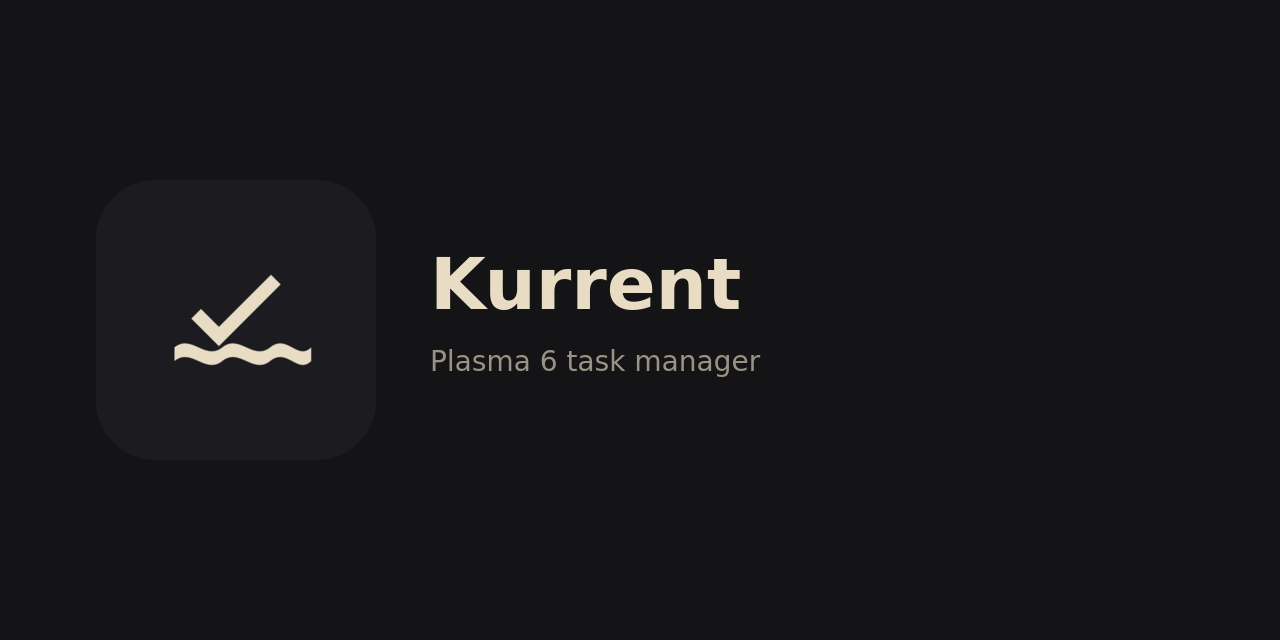
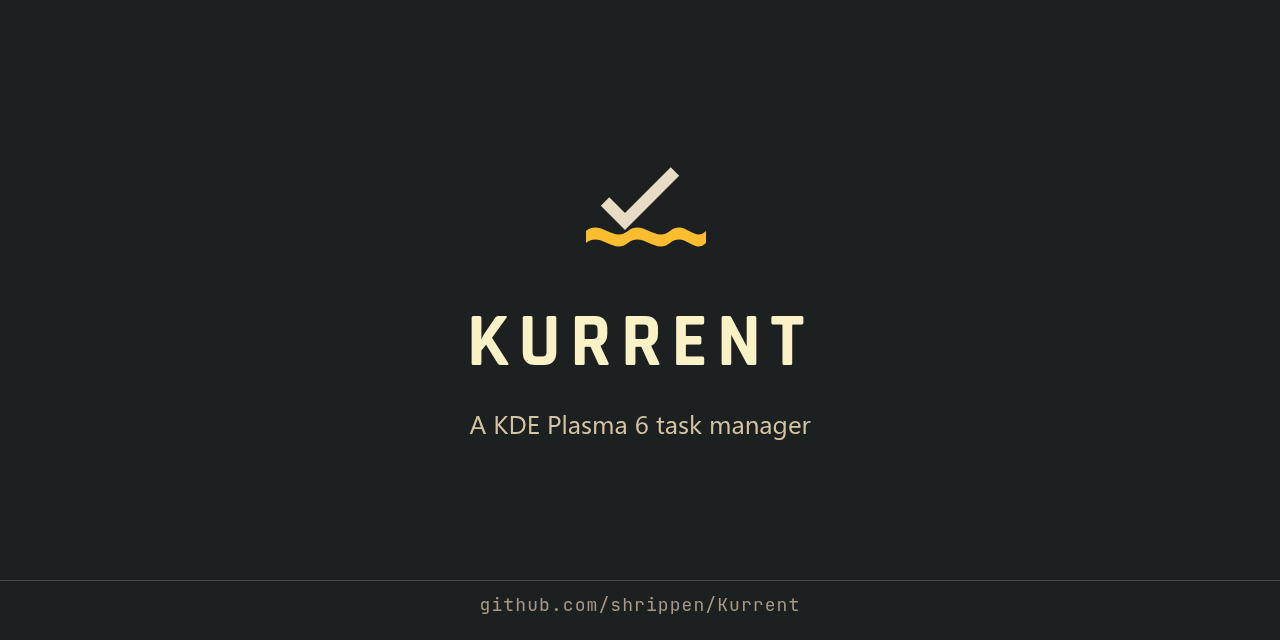
Expand and redesign landing page
Rebuild docs/index.html on the shared design system
(shrippen/DesignDefault): English by default with a German switch,
hero watermark, tier feature boxes and a signature footer. Add the
colour and monochrome logo and a generated social preview.

The page loads its stylesheet from the GitHub Pages site of
DesignDefault. Enable Pages there before merging this branch.

Add sections for views, Quick Add, the Akonadi flow, install,
configuration, FAQ and roadmap. Show version 0.4.0 and use the new
screenshots and detail crops.

diff --git a/docs/index.html b/docs/index.html
@@ -6,196 +6,156 @@
 <title>Kurrent — Plasma 6 Task Manager</title>
 <meta name="description" content="A KDE Plasma 6 task manager widget powered by Akonadi and Nextcloud CalDAV. Inbox, Today, Projects, Labels — right on your desktop.">
 <meta property="og:title" content="Kurrent — Plasma 6 Task Manager">
-<meta property="og:description" content="A KDE Plasma 6 task widget powered by Akonadi and Nextcloud CalDAV.">
-<meta property="og:image" content="https://shrippen.github.io/Kurrent/screenshot.jpg">
+<meta property="og:description" content="A KDE Plasma 6 task manager widget powered by Akonadi and Nextcloud CalDAV. Inbox, Today, Projects, Labels — right on your desktop.">
+<meta property="og:image" content="https://shrippen.github.io/Kurrent/social-preview.png">
+<meta property="og:image:width" content="1280">
+<meta property="og:image:height" content="640">
+<meta name="twitter:card" content="summary_large_image">
 <meta property="og:url" content="https://shrippen.github.io/Kurrent/">
-<link rel="icon" href="icon.svg" type="image/svg+xml">
+<link rel="icon" href="icon.svg">
 <script defer src="https://um.arianw.de/script.js" data-website-id="056d39ee-6a9d-4b14-9902-5a1ac399df08"></script>
 <link rel="preconnect" href="https://fonts.googleapis.com">
 <link rel="preconnect" href="https://fonts.gstatic.com" crossorigin>
-<link href="https://fonts.googleapis.com/css2?family=Rajdhani:wght@600;700&display=swap" rel="stylesheet">
-<style>
-*,*::before,*::after{box-sizing:border-box;margin:0;padding:0}
-:root{
-  --bg:#111113;--bg2:#1a1a1e;--fg:#e8dcc4;--fg2:#a09882;
-  --accent:#3daee9;--accent2:#27d796;--red:#e85050;
-  --radius:12px;--max:860px;
-  --font-heading:'Rajdhani',-apple-system,BlinkMacSystemFont,'Segoe UI',Roboto,Oxygen,Ubuntu,Cantarell,sans-serif;
-  --font:-apple-system,BlinkMacSystemFont,'Segoe UI',Roboto,Oxygen,Ubuntu,Cantarell,sans-serif;
-  --mono:'JetBrains Mono','Fira Code','Cascadia Code',Consolas,monospace;
-}
-html{scroll-behavior:smooth}
-body{background:var(--bg);color:var(--fg);font-family:var(--font);line-height:1.6;
-  -webkit-font-smoothing:antialiased}
-a{color:var(--accent);text-decoration:none}
-a:hover{text-decoration:underline}
-
-/* hero */
-.hero{display:flex;flex-direction:column;align-items:center;text-align:center;
-  padding:5rem 1.5rem 3rem;max-width:var(--max);margin:0 auto}
-.hero-icon{width:88px;height:88px;margin-bottom:1.5rem;filter:drop-shadow(0 0 24px rgba(61,174,233,.25))}
-.hero h1{font-family:var(--font-heading);font-size:clamp(2.2rem,5vw,3.4rem);font-weight:700;letter-spacing:-.02em;margin-bottom:.5rem}
-.hero .tagline{font-size:1.15rem;color:var(--fg2);max-width:520px;margin-bottom:2rem}
-.badges{display:flex;gap:.5rem;flex-wrap:wrap;justify-content:center;margin-bottom:2.5rem}
-.badges img{height:22px}
-
-/* install card */
-.install-card{background:var(--bg2);border:1px solid #2a2a30;border-radius:var(--radius);
-  padding:1.5rem;width:100%;max-width:640px;margin-bottom:1rem}
-.install-card label{display:block;font-size:.8rem;color:var(--fg2);margin-bottom:.5rem;text-transform:uppercase;letter-spacing:.06em}
-.cmd-row{display:flex;gap:.5rem;align-items:stretch}
-.cmd-box{flex:1;background:#0d0d0f;border:1px solid #2a2a30;border-radius:8px;padding:.7rem 1rem;
-  font-family:var(--mono);font-size:.85rem;color:var(--accent);white-space:nowrap;overflow-x:auto;
-  user-select:all;-webkit-user-select:all;cursor:text}
-.cmd-box::-webkit-scrollbar{height:4px}
-.cmd-box::-webkit-scrollbar-thumb{background:#333;border-radius:2px}
-.copy-btn{background:#2a2a30;border:1px solid #3a3a40;border-radius:8px;padding:.7rem .9rem;
-  cursor:pointer;color:var(--fg);font-size:.95rem;transition:background .15s}
-.copy-btn:hover{background:#3a3a44}
-.copy-btn.copied{background:#1a3a2a;border-color:var(--accent2);color:var(--accent2)}
-.install-note{font-size:.78rem;color:var(--fg2);margin-top:.6rem}
-.install-links{display:flex;gap:1rem;margin-top:1.2rem;flex-wrap:wrap;justify-content:center}
-.btn{display:inline-flex;align-items:center;gap:.45rem;padding:.55rem 1.2rem;border-radius:8px;
-  font-size:.88rem;font-weight:500;transition:all .15s;border:1px solid transparent}
-.btn-primary{background:var(--accent);color:#fff}
-.btn-primary:hover{background:#2c9ad8;text-decoration:none}
-.btn-ghost{border-color:#3a3a40;color:var(--fg2)}
-.btn-ghost:hover{border-color:var(--fg2);color:var(--fg);text-decoration:none}
-.btn svg{width:16px;height:16px;fill:currentColor}
-
-/* screenshot */
-.screenshot-wrap{padding:2.5rem 1.5rem;max-width:var(--max);margin:0 auto;text-align:center}
-.screenshot-wrap img{width:100%;max-width:780px;border-radius:var(--radius);
-  border:1px solid #2a2a30;box-shadow:0 8px 40px rgba(0,0,0,.5)}
-
-/* features */
-.features{display:grid;grid-template-columns:repeat(auto-fit,minmax(240px,1fr));gap:1.2rem;
-  padding:2rem 1.5rem 3rem;max-width:var(--max);margin:0 auto}
-.feat{background:var(--bg2);border:1px solid #2a2a30;border-radius:var(--radius);padding:1.3rem}
-.feat h3{font-family:var(--font-heading);font-size:1rem;font-weight:600;margin-bottom:.35rem}
-.feat p{font-size:.88rem;color:var(--fg2);line-height:1.5}
-
-/* prereqs */
-.section{padding:2rem 1.5rem;max-width:var(--max);margin:0 auto}
-.section h2{font-family:var(--font-heading);font-size:1.5rem;font-weight:600;margin-bottom:1rem}
-.section ul{list-style:none;padding:0}
-.section li{position:relative;padding-left:1.4rem;margin-bottom:.5rem;color:var(--fg2);font-size:.92rem}
-.section li::before{content:'›';position:absolute;left:0;color:var(--accent);font-weight:700}
-
-/* footer */
-footer{border-top:1px solid #2a2a30;padding:2rem 1.5rem;text-align:center;
-  color:var(--fg2);font-size:.82rem;margin-top:2rem}
-footer a{color:var(--fg2)}
-footer a:hover{color:var(--fg)}
-
-@media(max-width:500px){
-  .cmd-box{font-size:.75rem;padding:.6rem .7rem}
-  .hero{padding:3rem 1rem 2rem}
-}
-</style>
+<link href="https://fonts.googleapis.com/css2?family=Rajdhani:wght@500;600;700&family=JetBrains+Mono:wght@400;500&display=swap" rel="stylesheet">
+<link rel="stylesheet" href="https://shrippen.github.io/DesignDefault/v1/shrippen.css">
+<script src="https://shrippen.github.io/DesignDefault/v1/shrippen.js"></script>
 </head>
 <body>
 
-<section class="hero">
-  <img class="hero-icon" src="icon.svg" alt="Kurrent icon">
-  <h1>Kurrent</h1>
-  <p class="tagline">A KDE Plasma 6 task manager powered by Akonadi&nbsp;&amp;&nbsp;Nextcloud&nbsp;CalDAV. Inbox, Today, Projects, and Labels — right on your desktop.</p>
-
-  <div class="badges">
-    <a href="https://github.com/shrippen/Kurrent/releases/tag/v0.3.1"><img alt="Version 0.3.1" src="https://img.shields.io/badge/version-0.3.1-e8dcc4?labelColor=1c1c20"></a>
-    <img alt="Plasma 6" src="https://img.shields.io/badge/Plasma-6-3daee9?labelColor=1c1c20">
-    <img alt="License GPL-3.0" src="https://img.shields.io/badge/license-GPL--3.0-lightgrey?labelColor=1c1c20">
-  </div>
-
-  <div class="install-card">
-    <label>Install with one command</label>
-    <div class="cmd-row">
-      <div class="cmd-box" id="cmd">curl -fsSL https://github.com/shrippen/Kurrent/releases/latest/download/install-linux.sh | sudo bash</div>
-      <button class="copy-btn" id="copyBtn" title="Copy to clipboard" onclick="copyCmd()">
-        <svg viewBox="0 0 24 24" width="18" height="18" fill="none" stroke="currentColor" stroke-width="2" stroke-linecap="round" stroke-linejoin="round"><rect x="9" y="9" width="13" height="13" rx="2"/><path d="M5 15H4a2 2 0 01-2-2V4a2 2 0 012-2h9a2 2 0 012 2v1"/></svg>
-      </button>
+<nav class="nav"><div class="nav-inner">
+  <a class="nav-brand" href="#"><img src="icon.svg" alt="">Kurrent</a>
+  <div class="nav-links">
+    <a href="#features"><span lang="en">Features</span><span lang="de">Funktionen</span></a><a href="#views"><span lang="en">Views</span><span lang="de">Ansichten</span></a><a href="#install"><span lang="en">Install</span><span lang="de">Installation</span></a><a href="#faq"><span lang="en">FAQ</span><span lang="de">FAQ</span></a><a href="https://github.com/shrippen/Kurrent/blob/main/ROADMAP.md">Roadmap</a><a class="nav-hl" href="https://github.com/shrippen/Kurrent">GitHub</a>
+    <div class="lang" role="group" aria-label="Language">
+      <button type="button" data-lang="en" aria-pressed="true">EN</button>
+      <button type="button" data-lang="de" aria-pressed="false">DE</button>
     </div>
-    <p class="install-note"><code>sudo</code> is only for distro packages — the widget installs as your user. On non-Arch distros the installer falls back to compiling from source.</p>
   </div>
+</div></nav>
 
-  <div class="install-links">
-    <a class="btn btn-primary" href="https://github.com/shrippen/Kurrent/releases/latest">
-      <svg viewBox="0 0 24 24"><path d="M21 15v4a2 2 0 01-2 2H5a2 2 0 01-2-2v-4M7 10l5 5 5-5M12 15V3" fill="none" stroke="currentColor" stroke-width="2" stroke-linecap="round" stroke-linejoin="round"/></svg>
-      Download v0.3
-    </a>
-    <a class="btn btn-ghost" href="https://github.com/shrippen/Kurrent">
-      <svg viewBox="0 0 16 16"><path d="M8 0C3.58 0 0 3.58 0 8c0 3.54 2.29 6.53 5.47 7.59.4.07.55-.17.55-.38 0-.19-.01-.82-.01-1.49-2.01.37-2.53-.49-2.69-.94-.09-.23-.48-.94-.82-1.13-.28-.15-.68-.52-.01-.53.63-.01 1.08.58 1.23.82.72 1.21 1.87.87 2.33.66.07-.52.28-.87.51-1.07-1.78-.2-3.64-.89-3.64-3.95 0-.87.31-1.59.82-2.15-.08-.2-.36-1.02.08-2.12 0 0 .67-.21 2.2.82a7.5 7.5 0 014 0c1.53-1.04 2.2-.82 2.2-.82.44 1.1.16 1.92.08 2.12.51.56.82 1.27.82 2.15 0 3.07-1.87 3.75-3.65 3.95.29.25.54.73.54 1.48 0 1.07-.01 1.93-.01 2.2 0 .21.15.46.55.38A8.01 8.01 0 0016 8c0-4.42-3.58-8-8-8z"/></svg>
-      GitHub
-    </a>
-    <a class="btn btn-ghost" href="https://github.com/shrippen/Kurrent/blob/main/ROADMAP.md">Roadmap</a>
+<header class="hero">
+  <img class="hero-wm" src="icon-mono.svg" alt="" aria-hidden="true">
+  <div class="hero-main">
+    <h1 style="--title-size-narrow:clamp(2.5rem,22.0vw,13.1rem)">Kur<br class="split">rent</h1>
+    <p class="tagline" lang="en">A KDE Plasma 6 task manager powered by Akonadi &amp; Nextcloud CalDAV. Inbox, Today, Projects and Labels — with list, Kanban, calendar and heatmap views, right on your desktop.</p><p class="tagline" lang="de">Ein KDE-Plasma-6-Aufgabenmanager auf Basis von Akonadi &amp; Nextcloud-CalDAV. Inbox, Heute, Projekte und Labels – mit Listen-, Kanban-, Kalender- und Heatmap-Ansicht, direkt auf deinem Desktop.</p>
+  </div>
+  <div class="hero-side">
+    <div class="install-card">
+      <label><span lang="en">Install with one command</span><span lang="de">Installation mit einem Befehl</span></label><div class="cmd-row"><div class="cmd-box">curl -fsSL https://github.com/shrippen/Kurrent/releases/latest/download/install-linux.sh | sudo bash</div><button class="copy-btn" type="button" title="Copy" aria-label="Copy"><svg viewBox="0 0 24 24" width="18" height="18" fill="none" stroke="currentColor" stroke-width="2" stroke-linecap="round" stroke-linejoin="round"><rect x="9" y="9" width="13" height="13" rx="2"/><path d="M5 15H4a2 2 0 01-2-2V4a2 2 0 012-2h9a2 2 0 012 2v1"/></svg></button></div>
+      <p class="install-note" lang="en"><code>sudo</code> is only for distro packages — the widget installs as your user. On non-Arch distros the installer falls back to compiling from source.</p><p class="install-note" lang="de"><code>sudo</code> wird nur für Distributionspakete gebraucht – das Widget selbst wird als dein Benutzer installiert. Auf Nicht-Arch-Distributionen kompiliert der Installer aus dem Quellcode.</p>
+      <div class="install-links"><a class="btn btn-primary" href="https://github.com/shrippen/Kurrent/releases/latest">Download</a><a class="btn btn-ghost" href="https://github.com/shrippen/Kurrent">GitHub</a></div>
+    </div>
+    <div class="hero-shot"><img src="tasks.jpg" alt="Kurrent task list with sidebar for views, projects, labels and priorities, and a quick-add field"></div>
+  </div>
+</header>
+
+<main>
+
+<div class="section"><div class="callout callout-warn"><span lang="en"><strong>Note:</strong> Kurrent is completely vibe coded from start to finish. It is something I wanted for myself, but I might as well share it.</span><span lang="de"><strong>Hinweis:</strong> Kurrent ist von Anfang bis Ende komplett vibe-codiert. Ich wollte es für mich selbst, teile es aber gern.</span></div></div>
+<section class="facts"><div class="fact"><b>6</b><span><span lang="en">View modes</span><span lang="de">Ansichtsmodi</span></span></div><div class="fact"><b>6</b><span><span lang="en">Languages</span><span lang="de">Sprachen</span></span></div><div class="fact"><b>0</b><span><span lang="en">Extra logins</span><span lang="de">Zusätzliche Logins</span></span></div><div class="fact"><b>GPL-3</b><span><span lang="en">Open source</span><span lang="de">Open Source</span></span></div></section>
+<section class="features" id="features">
+  <div class="feat" data-tier="red">
+    <span class="feat-tag">Inbox</span>
+    <h3 lang="en">Inbox → Today flow</h3><h3 lang="de">Von Inbox zu Heute</h3>
+    <p lang="en">Inbox, Today, Tomorrow, Scheduled, Anytime, Recurring, Unlabeled, and Completed views — all from Akonadi.</p><p lang="de">Inbox, Heute, Morgen, Geplant, Jederzeit, Wiederkehrend, Ohne Label und Erledigt – alles aus Akonadi.</p>
+  </div>
+  <div class="feat" data-tier="yellow">
+    <span class="feat-tag">Quick Add</span>
+    <h3 lang="en">Quick Add</h3><h3 lang="de">Quick Add</h3>
+    <p lang="en"><code>tomorrow 18:00 !high #tag @project</code> — natural-language task entry with fuzzy matching.</p><p lang="de"><code>tomorrow 18:00 !high #tag @project</code> – Aufgaben in natürlicher Sprache eingeben, mit unscharfer Zuordnung.</p>
+  </div>
+  <div class="feat" data-tier="blue">
+    <span class="feat-tag"><span lang="en">Projects</span><span lang="de">Projekte</span></span>
+    <h3 lang="en">Projects &amp; Labels</h3><h3 lang="de">Projekte &amp; Labels</h3>
+    <p lang="en">Akonadi calendars as projects, CalDAV categories as labels. Color-coded, filterable, drag-and-drop subtasks.</p><p lang="de">Akonadi-Kalender als Projekte, CalDAV-Kategorien als Labels. Farbcodiert, filterbar, Unteraufgaben per Drag-and-drop.</p>
+  </div>
+  <div class="feat" data-tier="red">
+    <span class="feat-tag">CalDAV</span>
+    <h3 lang="en">CalDAV round-trip</h3><h3 lang="de">CalDAV-Abgleich</h3>
+    <p lang="en">Uses your existing Nextcloud / KOrganizer / Merkuro CalDAV setup. No separate login.</p><p lang="de">Nutzt dein vorhandenes CalDAV-Setup aus Nextcloud, KOrganizer oder Merkuro. Kein separater Login.</p>
+  </div>
+  <div class="feat" data-tier="yellow">
+    <span class="feat-tag">Desktop</span>
+    <h3 lang="en">Panel &amp; Desktop</h3><h3 lang="de">Panel &amp; Desktop</h3>
+    <p lang="en">Works as a panel flyout and a desktop widget. Shared settings, shared config, same full editor.</p><p lang="de">Funktioniert als Panel-Popup und als Desktop-Widget. Gemeinsame Einstellungen, gleicher vollständiger Editor.</p>
+  </div>
+  <div class="feat" data-tier="blue">
+    <span class="feat-tag"><span lang="en">Languages</span><span lang="de">Sprachen</span></span>
+    <h3 lang="en">Translations</h3><h3 lang="de">Übersetzungen</h3>
+    <p lang="en">German, Spanish, French, Japanese, Simplified Chinese — with Quick Add understanding your language too.</p><p lang="de">Deutsch, Spanisch, Französisch, Japanisch und vereinfachtes Chinesisch – Quick Add versteht auch deine Sprache.</p>
+  </div>
+  <div class="feat" data-tier="red">
+    <span class="feat-tag"><span lang="en">Smart Views</span><span lang="de">Smart Views</span></span>
+    <h3 lang="en">Your own views</h3><h3 lang="de">Eigene Ansichten</h3>
+    <p lang="en">Save filters by project, label, status, due date and priority as views of their own, with badges in the sidebar.</p><p lang="de">Speichere Filter nach Projekt, Label, Status, Fälligkeit und Priorität als eigene Ansichten, mit Zähler in der Seitenleiste.</p>
+  </div>
+  <div class="feat" data-tier="yellow">
+    <span class="feat-tag"><span lang="en">Sort</span><span lang="de">Sortierung</span></span>
+    <h3 lang="en">Sort your way</h3><h3 lang="de">Sortieren, wie du willst</h3>
+    <p lang="en">Multi-level sorting, by default Priority › Due › A–Z. Global or per view, with many sort keys.</p><p lang="de">Mehrstufige Sortierung, standardmäßig Priorität › Fällig › A–Z. Global oder pro Ansicht, mit vielen Sortierschlüsseln.</p>
+  </div>
+  <div class="feat" data-tier="blue">
+    <span class="feat-tag"><span lang="en">Reminders</span><span lang="de">Erinnerungen</span></span>
+    <h3 lang="en">Calendar-aware</h3><h3 lang="de">Kalenderbewusst</h3>
+    <p lang="en">Optionally silence reminders during ongoing calendar events. You pick which event calendars count.</p><p lang="de">Erinnerungen lassen sich während laufender Kalendertermine stummschalten. Du wählst, welche Terminkalender zählen.</p>
   </div>
 </section>
-
-<section class="screenshot-wrap">
-  <img src="screenshot.jpg" alt="Kurrent desktop widget showing Today view with sidebar, projects, labels, and quick-add" loading="lazy">
+<section class="showcase"><div class="showcase-text"><span class="showcase-tag"><span lang="en">Sidebar</span><span lang="de">Seitenleiste</span></span><h2 lang="en">Everything in its place</h2><h2 lang="de">Alles an seinem Platz</h2><p lang="en">The sidebar keeps your tasks sorted the way you think: built-in views with live counts, your projects and your labels.</p><p lang="de">Die Seitenleiste ordnet deine Aufgaben so, wie du denkst: eingebaute Ansichten mit Live-Zählern, deine Projekte und deine Labels.</p><ul lang="en"><li><strong>Views</strong> such as Inbox, Today, Overdue, Tomorrow, Scheduled, Anytime and Completed</li><li><strong>Projects</strong> are your Akonadi calendars</li><li><strong>Labels</strong> are CalDAV categories, color-coded and filterable</li><li>Order and visibility can be changed in the Sidebar settings</li></ul><ul lang="de"><li><strong>Ansichten</strong> wie Inbox, Heute, Überfällig, Morgen, Geplant, Jederzeit und Erledigt</li><li><strong>Projekte</strong> sind deine Akonadi-Kalender</li><li><strong>Labels</strong> sind CalDAV-Kategorien, farbcodiert und filterbar</li><li>Reihenfolge und Sichtbarkeit lassen sich in den Seitenleisten-Einstellungen ändern</li></ul></div><figure class="native"><img src="detail-sidebar.jpg" alt="Kurrent sidebar with views and counts, projects and labels" loading="lazy"><figcaption><span lang="en">Sidebar: views, counts, projects, labels</span><span lang="de">Seitenleiste: Ansichten, Zähler, Projekte, Labels</span></figcaption></figure></section>
+<section class="showcase rev"><div class="showcase-text"><span class="showcase-tag"><span lang="en">Views</span><span lang="de">Ansichten</span></span><h2 lang="en">One task set, six views</h2><h2 lang="de">Ein Aufgabenbestand, sechs Ansichten</h2><p lang="en">A switcher in the header changes how the same filtered tasks are shown. The sidebar selection or Smart View decides <em>what</em> you see, the view mode decides <em>how</em>.</p><p lang="de">Ein Umschalter im Kopf ändert, wie dieselben gefilterten Aufgaben dargestellt werden. Die Auswahl in der Seitenleiste oder eine Smart View bestimmt, <em>was</em> du siehst, der Ansichtsmodus, <em>wie</em>.</p><ul lang="en"><li><strong>List</strong>: the classic task list with inline editor</li><li><strong>Kanban</strong>: columns and cards</li><li><strong>Swimlanes</strong>: lanes by project, label, priority or parent task × day, week or month</li><li><strong>Project plan</strong>: projects × time with a planning horizon</li><li><strong>Heatmap</strong>: day cells by due date or completions</li><li><strong>Calendar + tasks</strong>: events and tasks of a day</li></ul><ul lang="de"><li><strong>Liste</strong>: die klassische Aufgabenliste mit Inline-Editor</li><li><strong>Kanban</strong>: Spalten und Karten</li><li><strong>Swimlanes</strong>: Bahnen nach Projekt, Label, Priorität oder Elternaufgabe × Tag, Woche oder Monat</li><li><strong>Projektplan</strong>: Projekte × Zeit mit Planungshorizont</li><li><strong>Heatmap</strong>: Tageszellen nach Fälligkeit oder Erledigungen</li><li><strong>Kalender + Aufgaben</strong>: Termine und Aufgaben eines Tages</li></ul><p lang="en">Swimlanes and Project plan are new in 0.4 and not yet verified by hand.</p><p lang="de">Swimlanes und Projektplan sind neu in 0.4 und noch nicht von Hand geprüft.</p></div><figure class="native"><img src="detail-views.jpg" alt="The view switcher in the header of Kurrent" loading="lazy"><figcaption><span lang="en">View switcher in the header</span><span lang="de">Ansichtsumschalter im Kopf</span></figcaption></figure></section>
+<section class="showcase"><div class="showcase-text"><span class="showcase-tag"><span lang="en">Kanban</span><span lang="de">Kanban</span></span><h2 lang="en">Move work along</h2><h2 lang="de">Arbeit weiterschieben</h2><p lang="en">Cards sit in columns such as Needs action, In process and Completed. Drag a card to another column and Kurrent writes the matching field back through Akonadi. The column source is configurable in the settings.</p><p lang="de">Karten liegen in Spalten wie Needs action, In process und Completed. Ziehst du eine Karte in eine andere Spalte, schreibt Kurrent das passende Feld über Akonadi zurück. Die Spaltenquelle ist in den Einstellungen wählbar.</p><p lang="en">Drag and drop between columns is implemented and unit-tested, but not yet verified by hand.</p><p lang="de">Drag-and-drop zwischen Spalten ist umgesetzt und per Test abgedeckt, aber noch nicht von Hand geprüft.</p></div><figure><img src="kanban.jpg" alt="Kurrent Kanban board with columns" loading="lazy"><figcaption><span lang="en">Kanban view</span><span lang="de">Kanban-Ansicht</span></figcaption></figure></section>
+<section class="showcase rev"><div class="showcase-text"><span class="showcase-tag"><span lang="en">Calendar</span><span lang="de">Kalender</span></span><h2 lang="en">Tasks next to your day</h2><h2 lang="de">Aufgaben neben deinem Tag</h2><p lang="en">Calendar + tasks puts the events of the selected day beside your tasks. Switch between Day and Week. Events come from your Akonadi calendars, so what you see matches KOrganizer and Merkuro.</p><p lang="de">Kalender + Aufgaben zeigt die Termine des gewählten Tages neben deinen Aufgaben. Wechsle zwischen Tag und Woche. Die Termine stammen aus deinen Akonadi-Kalendern und entsprechen deshalb KOrganizer und Merkuro.</p></div><figure><img src="agenda.jpg" alt="Kurrent agenda view with a day of tasks" loading="lazy"><figcaption><span lang="en">Calendar + tasks, day view</span><span lang="de">Kalender + Aufgaben, Tagesansicht</span></figcaption></figure></section>
+<section class="showcase"><div class="showcase-text"><span class="showcase-tag"><span lang="en">Heatmap</span><span lang="de">Heatmap</span></span><h2 lang="en">See the load at a glance</h2><h2 lang="de">Die Last auf einen Blick</h2><p lang="en">The heatmap colors each day of the month by how many tasks are due or were completed. Switch the mode, or jump to the year view to spot busy weeks early.</p><p lang="de">Die Heatmap färbt jeden Tag des Monats danach, wie viele Aufgaben fällig sind oder erledigt wurden. Wechsle den Modus oder springe in die Jahresansicht, um volle Wochen früh zu erkennen.</p></div><figure><img src="heatmap.jpg" alt="Kurrent heatmap of a month" loading="lazy"><figcaption><span lang="en">Heatmap, month view</span><span lang="de">Heatmap, Monatsansicht</span></figcaption></figure></section>
+<section class="section" id="quickadd">
+  <h2 lang="en">Quick Add</h2><h2 lang="de">Quick Add</h2>
+  <p lang="en">Type a task in plain language and Kurrent fills in the fields. Parts you leave out stay empty, names are matched fuzzily against your projects and labels.</p><p lang="de">Tippe eine Aufgabe in normaler Sprache, und Kurrent füllt die Felder aus. Was du weglässt, bleibt leer, Namen werden unscharf mit deinen Projekten und Labels abgeglichen.</p>
+  <div class="tokens"><div class="tok" data-k="text"><code><span lang="en">Send invoice</span><span lang="de">Rechnung senden</span></code><small><span lang="en">Title</span><span lang="de">Titel</span></small></div><div class="tok" data-k="date"><code><span lang="en">tomorrow 18:00</span><span lang="de">morgen 18:00</span></code><small><span lang="en">Date and time</span><span lang="de">Datum und Uhrzeit</span></small></div><div class="tok" data-k="prio"><code><span lang="en">!high</span><span lang="de">!hoch</span></code><small><span lang="en">Priority</span><span lang="de">Priorität</span></small></div><div class="tok" data-k="tag"><code>#tag</code><small><span lang="en">Label</span><span lang="de">Label</span></small></div><div class="tok" data-k="project"><code><span lang="en">@project</span><span lang="de">@projekt</span></code><small><span lang="en">Project</span><span lang="de">Projekt</span></small></div></div>
+  <div class="hero-shot" style="margin-bottom:1rem"><img src="detail-quickadd.jpg" alt="The Quick Add field at the bottom of the task list" loading="lazy"></div>
+  <ul lang="en"><li>Long text wraps and the field grows; <kbd>Enter</kbd> adds the task, <kbd>Shift</kbd>+<kbd>Enter</kbd> inserts a line break</li><li>Clicking the plus button with an empty field opens the full editor</li><li>Quick Add understands your interface language too</li></ul><ul lang="de"><li>Langer Text bricht um und das Feld wächst; <kbd>Enter</kbd> legt die Aufgabe an, <kbd>Shift</kbd>+<kbd>Enter</kbd> fügt einen Zeilenumbruch ein</li><li>Ein Klick auf das Plus bei leerem Feld öffnet den vollen Editor</li><li>Quick Add versteht auch deine Oberflächensprache</li></ul>
 </section>
-
-<section class="features">
-  <div class="feat">
-    <h3>📥 Inbox → Today flow</h3>
-    <p>Inbox, Today, Tomorrow, Scheduled, Anytime, Recurring, Unlabeled, and Completed views — all from Akonadi.</p>
-  </div>
-  <div class="feat">
-    <h3>⚡ Quick Add</h3>
-    <p><code>tomorrow 18:00 !high #tag @project</code> — natural-language task entry with fuzzy matching.</p>
-  </div>
-  <div class="feat">
-    <h3>🗂 Projects &amp; Labels</h3>
-    <p>Akonadi calendars as projects, CalDAV categories as labels. Color-coded, filterable, drag-and-drop subtasks.</p>
-  </div>
-  <div class="feat">
-    <h3>🔁 CalDAV round-trip</h3>
-    <p>Uses your existing Nextcloud / KOrganizer / Merkuro CalDAV setup. No separate login.</p>
-  </div>
-  <div class="feat">
-    <h3>🖥 Panel &amp; Desktop</h3>
-    <p>Works as a panel flyout and a desktop widget. Shared settings, shared config, same full editor.</p>
-  </div>
-  <div class="feat">
-    <h3>🌍 Translations</h3>
-    <p>German, Spanish, French, Japanese, Simplified Chinese — with Quick Add understanding your language too.</p>
-  </div>
+<section class="section" id="panel">
+  <h2 lang="en">Panel, notifications and keyboard</h2><h2 lang="de">Panel, Benachrichtigungen und Tastatur</h2>
+  <ul lang="en"><li><strong>Panel badge</strong>: open tasks, tasks for tomorrow or high priority, as a number or a dot; the overdue color is configurable</li><li><strong>Panel tooltip</strong>: choose what it summarizes, from open tasks to all views</li><li><strong>Join button</strong> for <code>http(s)</code> meeting links, in the row and in the editor</li><li><strong>Reminders</strong> can stay quiet while a calendar event is running</li><li><strong>KRunner</strong>: <code>task today</code>, <code>task &lt;search&gt;</code> and adding tasks</li><li><strong>Global shortcuts</strong> <kbd>Meta</kbd>+<kbd>Shift</kbd>+<kbd>K</kbd> and <kbd>N</kbd>, plus a D-Bus interface to show the widget or add a task</li></ul><ul lang="de"><li><strong>Panel-Badge</strong>: offene Aufgaben, Aufgaben für morgen oder mit hoher Priorität, als Zahl oder Punkt; die Farbe für Überfälliges ist einstellbar</li><li><strong>Panel-Tooltip</strong>: wähle, was er zusammenfasst, von offenen Aufgaben bis zu allen Ansichten</li><li><strong>Beitreten-Knopf</strong> für <code>http(s)</code>-Meeting-Links, in der Zeile und im Editor</li><li><strong>Erinnerungen</strong> können still bleiben, solange ein Kalendertermin läuft</li><li><strong>KRunner</strong>: <code>task today</code>, <code>task &lt;Suche&gt;</code> und Aufgaben anlegen</li><li><strong>Globale Tastenkürzel</strong> <kbd>Meta</kbd>+<kbd>Shift</kbd>+<kbd>K</kbd> und <kbd>N</kbd>, dazu eine D-Bus-Schnittstelle, um das Widget zu zeigen oder eine Aufgabe anzulegen</li></ul>
+  <p lang="en">KRunner and the global shortcuts are new in 0.4 and not yet verified by hand.</p><p lang="de">KRunner und die globalen Tastenkürzel sind neu in 0.4 und noch nicht von Hand geprüft.</p>
 </section>
-
-<section class="section">
-  <h2>Prerequisites</h2>
-  <ul>
-    <li>KDE Plasma 6</li>
-    <li>Akonadi with a task-capable calendar (DAV groupware / Nextcloud VTODO)</li>
-    <li>The installer handles build dependencies on Arch, Fedora, Debian/Ubuntu, and openSUSE</li>
-  </ul>
+<section class="section" id="how">
+  <h2 lang="en">How it works</h2><h2 lang="de">So funktioniert es</h2>
+  <p lang="en">Akonadi stays the source of truth. Every change goes through Akonadi jobs, and the widget only keeps an optimistic cache in front of it. There is no second task database.</p><p lang="de">Akonadi bleibt die Quelle der Wahrheit. Jede Änderung läuft über Akonadi-Jobs, und das Widget hält nur einen optimistischen Cache davor. Es gibt keine zweite Aufgabendatenbank.</p>
+  <div class="flow"><div class="flow-node hl"><b>Kurrent widget</b><span><span lang="en">Plasma UI in QML and Kirigami, panel and desktop</span><span lang="de">Plasma-Oberfläche in QML und Kirigami, Panel und Desktop</span></span></div><span class="flow-arrow" aria-hidden="true"></span><div class="flow-node"><b>libkurrentplugin.so</b><span><span lang="en">Compiled QML plugin; creates, edits and moves tasks as Akonadi jobs</span><span lang="de">Kompiliertes QML-Plugin; legt Aufgaben an, ändert und verschiebt sie als Akonadi-Jobs</span></span></div><span class="flow-arrow" aria-hidden="true"></span><div class="flow-node"><b>Akonadi</b><span><span lang="en">KDE PIM storage, shared with KOrganizer and Merkuro</span><span lang="de">KDE-PIM-Speicher, geteilt mit KOrganizer und Merkuro</span></span></div><span class="flow-arrow" aria-hidden="true"></span><div class="flow-node"><b>CalDAV</b><span><span lang="en">Nextcloud or any CalDAV server, VTODO collections</span><span lang="de">Nextcloud oder ein anderer CalDAV-Server, VTODO-Sammlungen</span></span></div></div>
+  <ul lang="en"><li>Changes show up at once and are rolled back if Akonadi refuses them</li><li>A banner shows when Akonadi is offline (red) or syncing (yellow)</li><li>Merge conflicts open a wizard that walks through one field at a time</li><li>If widget and plugin versions differ, a warning explains how to reinstall</li></ul><ul lang="de"><li>Änderungen erscheinen sofort und werden zurückgenommen, wenn Akonadi sie ablehnt</li><li>Ein Banner zeigt, wenn Akonadi offline (rot) oder am Synchronisieren (gelb) ist</li><li>Bei Merge-Konflikten führt ein Assistent Feld für Feld durch die Auflösung</li><li>Weichen Widget- und Plugin-Version voneinander ab, erklärt eine Warnung die Neuinstallation</li></ul>
 </section>
-
-<section class="section">
-  <h2>How it works</h2>
-  <ul>
-    <li>Run the one-liner above — it downloads a prebuilt plugin from the latest GitHub Release into <code>~/.local</code></li>
-    <li>Add the <strong>Kurrent</strong> widget to your panel or desktop</li>
-    <li>Tasks come from your existing Akonadi collections — configure CalDAV in Merkuro or KOrganizer</li>
-    <li>The KDE Store <code>.plasmoid</code> is UI only — the install script adds the Akonadi backend plugin</li>
-  </ul>
+<section class="section" id="install">
+  <h2 lang="en">Install</h2><h2 lang="de">Installation</h2>
+  <ol class="steps" lang="en"><li>Set up your calendar in <strong>KOrganizer</strong> or <strong>Merkuro</strong>: add a <strong>DAV groupware resource</strong>, choose <strong>Nextcloud</strong>, enter server URL, user name and app password, and enable the task (VTODO) collections. Check with <code>akonadictl status</code>.</li><li>Run the one-liner from the box above. It downloads the prebuilt plugin and the widget from the latest release into <code>~/.local</code>.</li><li>Add the <strong>Kurrent</strong> widget to your panel or desktop.</li></ol><ol class="steps" lang="de"><li>Richte deinen Kalender in <strong>KOrganizer</strong> oder <strong>Merkuro</strong> ein: <strong>DAV-Groupware-Ressource</strong> hinzufügen, <strong>Nextcloud</strong> wählen, Server-URL, Benutzername und App-Passwort eintragen und die Aufgabensammlungen (VTODO) aktivieren. Prüfen mit <code>akonadictl status</code>.</li><li>Führe den Einzeiler aus der Box oben aus. Er lädt das fertige Plugin und das Widget aus dem neuesten Release nach <code>~/.local</code>.</li><li>Füge das Widget <strong>Kurrent</strong> zu deinem Panel oder Desktop hinzu.</li></ol>
+  <p lang="en">Options for the installer: <code>--tag v0.4</code> pins a release, <code>--from-source</code> compiles instead of using the Arch-built plugin, <code>--no-deps</code> skips distro packages. It checks for Plasma 6, Qt 6 and KF6 first and knows package lists for Arch, Fedora/RHEL, Debian/Ubuntu and openSUSE.</p><p lang="de">Optionen des Installers: <code>--tag v0.4</code> pinnt ein Release, <code>--from-source</code> kompiliert statt des auf Arch gebauten Plugins, <code>--no-deps</code> überspringt Distributionspakete. Er prüft zuerst Plasma 6, Qt 6 und KF6 und kennt Paketlisten für Arch, Fedora/RHEL, Debian/Ubuntu und openSUSE.</p>
 </section>
+<section class="section" id="config">
+  <h2 lang="en">Configuration</h2><h2 lang="de">Konfiguration</h2>
+  <p lang="en">Right-click the widget and choose <strong>Configure Kurrent</strong>. Settings apply to every Kurrent instance and live in <code>~/.config/com.github.shrippen.kurrent/kurrentrc</code>.</p><p lang="de">Rechtsklick auf das Widget und <strong>Kurrent einrichten</strong>. Die Einstellungen gelten für jede Kurrent-Instanz und liegen in <code>~/.config/com.github.shrippen.kurrent/kurrentrc</code>.</p>
+  <div class="table-wrap"><table class="table"><thead><tr><th><span lang="en">Page</span><span lang="de">Seite</span></th><th><span lang="en">What you set</span><span lang="de">Was du einstellst</span></th></tr></thead><tbody><tr><td><span lang="en">General</span><span lang="de">Allgemein</span></td><td><span lang="en">Default view and completed tasks</span><span lang="de">Standardansicht und erledigte Aufgaben</span></td></tr><tr><td><span lang="en">Appearance</span><span lang="de">Darstellung</span></td><td><span lang="en">Blurred wallpaper background via Plasma</span><span lang="de">Verschwommener Hintergrund über Plasma</span></td></tr><tr><td><span lang="en">Sidebar</span><span lang="de">Seitenleiste</span></td><td><span lang="en">Row size, order and visibility</span><span lang="de">Zeilengröße, Reihenfolge und Sichtbarkeit</span></td></tr><tr><td><span lang="en">Tasks</span><span lang="de">Aufgaben</span></td><td><span lang="en">Sorting (global or per view) and the default project for new tasks</span><span lang="de">Sortierung (global oder pro Ansicht) und Standardprojekt für neue Aufgaben</span></td></tr><tr><td><span lang="en">Views</span><span lang="de">Ansichten</span></td><td><span lang="en">Smart Views, Kanban, Swimlanes and Project plan</span><span lang="de">Smart Views, Kanban, Swimlanes und Projektplan</span></td></tr><tr><td><span lang="en">Panel</span><span lang="de">Panel</span></td><td><span lang="en">Badge mode, dot or number, tooltip</span><span lang="de">Badge-Modus, Punkt oder Zahl, Tooltip</span></td></tr><tr><td><span lang="en">Notifications</span><span lang="de">Benachrichtigungen</span></td><td><span lang="en">Reminders, quiet during calendar events</span><span lang="de">Erinnerungen, still bei Kalenderterminen</span></td></tr><tr><td><span lang="en">Projects and Labels</span><span lang="de">Projekte und Labels</span></td><td><span lang="en">Which calendars and labels are enabled or hidden</span><span lang="de">Welche Kalender und Labels aktiv oder verborgen sind</span></td></tr></tbody></table></div>
+</section>
+<section class="section" id="faq">
+  <h2 lang="en">Questions</h2><h2 lang="de">Fragen</h2>
+  <div class="faq"><details><summary><span lang="en">Why is the KDE Store package not enough?</span><span lang="de">Warum reicht das Paket aus dem KDE Store nicht?</span></summary><div><p lang="en">The <code>.plasmoid</code> from the Store is only the widget UI. The Akonadi backend is a compiled plugin, <code>libkurrentplugin.so</code>, which the Store cannot ship. Without it Kurrent shows how to get the plugin instead of a QML error.</p><p lang="de">Das <code>.plasmoid</code> aus dem Store enthält nur die Widget-Oberfläche. Das Akonadi-Backend ist ein kompiliertes Plugin, <code>libkurrentplugin.so</code>, das der Store nicht ausliefern kann. Ohne es zeigt Kurrent, wie du das Plugin bekommst, statt eines QML-Fehlers.</p><p lang="en">“Get New Widgets” updates only the UI. After a Store update, run the one-liner again; until then a version mismatch warning appears.</p><p lang="de">„Neue Widgets holen“ aktualisiert nur die Oberfläche. Führe nach einem Store-Update den Einzeiler erneut aus; bis dahin erscheint eine Warnung zur Versionsabweichung.</p></div></details><details><summary><span lang="en">Does Kurrent have its own login or database?</span><span lang="de">Hat Kurrent ein eigenes Login oder eine eigene Datenbank?</span></summary><div><p lang="en">No. Kurrent reads and writes the calendars you already set up in KDE PIM. There is no separate CalDAV login and no parallel task database.</p><p lang="de">Nein. Kurrent liest und schreibt die Kalender, die du in KDE PIM schon eingerichtet hast. Es gibt kein separates CalDAV-Login und keine parallele Aufgabendatenbank.</p></div></details><details><summary><span lang="en">Does it work on immutable distros?</span><span lang="de">Funktioniert es auf unveränderlichen Distributionen?</span></summary><div><p lang="en">Yes, with an extra step. On Fedora Atomic layer the dependencies with <code>rpm-ostree install</code>, reboot and run the installer with <code>--no-deps</code>; on openSUSE MicroOS use <code>transactional-update pkg install</code> first. Or run the installer inside Toolbx or Distrobox. Kurrent itself installs under <code>~/.local</code>, which survives reboots.</p><p lang="de">Ja, mit einem Zusatzschritt. Unter Fedora Atomic installierst du die Abhängigkeiten mit <code>rpm-ostree install</code>, startest neu und führst den Installer mit <code>--no-deps</code> aus; unter openSUSE MicroOS zuerst <code>transactional-update pkg install</code>. Oder starte den Installer in Toolbx oder Distrobox. Kurrent selbst landet in <code>~/.local</code>, das Neustarts übersteht.</p></div></details><details><summary><span lang="en">Which distributions are supported?</span><span lang="de">Welche Distributionen werden unterstützt?</span></summary><div><p lang="en">The prebuilt plugin is built on Arch Linux and linked against its Plasma 6 and KDE PIM. On other distributions the installer compiles from source. AUR and COPR packages are planned.</p><p lang="de">Das fertige Plugin ist auf Arch Linux gebaut und gegen dessen Plasma 6 und KDE PIM gelinkt. Auf anderen Distributionen kompiliert der Installer aus dem Quellcode. Pakete für AUR und COPR sind geplant.</p></div></details></div>
+</section>
+<section class="section" id="roadmap">
+  <h2 lang="en">Roadmap</h2><h2 lang="de">Roadmap</h2>
+  <p lang="en">Toward 1.0: distribution packages (AUR and COPR, then OBS and Debian if cheap), keyboard-first use, an undo control in the header and more polish. Out of scope for 1.0: Markdown notes, attachments, a login of its own and CalDAV without Akonadi.</p><p lang="de">Auf dem Weg zu 1.0: Distributionspakete (AUR und COPR, danach OBS und Debian, wenn es wenig kostet), Bedienung per Tastatur, ein Rückgängig-Knopf im Kopf und mehr Feinschliff. Nicht Teil von 1.0: Markdown-Notizen, Anhänge, ein eigenes Login und CalDAV ohne Akonadi.</p><p lang="en">Details in <a href="https://github.com/shrippen/Kurrent/blob/main/ROADMAP.md">ROADMAP.md</a> and the <a href="https://github.com/shrippen/Kurrent/blob/main/CHANGELOG.md">changelog</a>.</p><p lang="de">Details in der <a href="https://github.com/shrippen/Kurrent/blob/main/ROADMAP.md">ROADMAP.md</a> und im <a href="https://github.com/shrippen/Kurrent/blob/main/CHANGELOG.md">Changelog</a>.</p>
+</section>
+</main>
 
-<footer>
-  <p>GPL-3.0-or-later · Made by <a href="https://github.com/shrippen">shrippen</a> · <a href="https://github.com/shrippen/Kurrent/issues">Issues</a></p>
+<footer class="foot">
+  <div class="foot-inner">
+    <div class="foot-brand">
+      <img src="icon.svg" alt="">
+      <div><span class="foot-name">Kurrent</span><span class="foot-tag"><span lang="en">A KDE Plasma 6 task manager</span><span lang="de">Ein KDE-Plasma-6-Aufgabenmanager</span></span></div>
+    </div>
+    <nav class="foot-cols" aria-label="Footer">
+      <div><h4><span lang="en">Project</span><span lang="de">Projekt</span></h4><a href="#features"><span lang="en">Features</span><span lang="de">Funktionen</span></a><a href="#views"><span lang="en">Views</span><span lang="de">Ansichten</span></a><a href="#install"><span lang="en">Install</span><span lang="de">Installation</span></a><a href="#faq"><span lang="en">FAQ</span><span lang="de">FAQ</span></a><a href="https://github.com/shrippen/Kurrent/blob/main/ROADMAP.md">Roadmap</a></div>
+      <div><h4><span lang="en">Source</span><span lang="de">Quelltext</span></h4><a href="https://github.com/shrippen/Kurrent">GitHub</a><a href="https://github.com/shrippen/Kurrent/issues">Issues</a><a href="https://github.com/shrippen/Kurrent/releases">Releases</a></div>
+    </nav>
+  </div>
+  <div class="foot-meta"><p>GPL-3.0-or-later · shrippen · v0.4.0</p></div>
 </footer>
 
-<script>
-function copyCmd(){
-  var t=document.getElementById('cmd').textContent;
-  navigator.clipboard.writeText(t).then(function(){
-    var b=document.getElementById('copyBtn');
-    b.classList.add('copied');b.innerHTML='✓';
-    setTimeout(function(){b.classList.remove('copied');
-      b.innerHTML='<svg viewBox="0 0 24 24" width="18" height="18" fill="none" stroke="currentColor" stroke-width="2" stroke-linecap="round" stroke-linejoin="round"><rect x="9" y="9" width="13" height="13" rx="2"/><path d="M5 15H4a2 2 0 01-2-2V4a2 2 0 012-2h9a2 2 0 012 2v1"/></svg>';
-    },1500);
-  });
-}
-</script>
 </body>
 </html>
